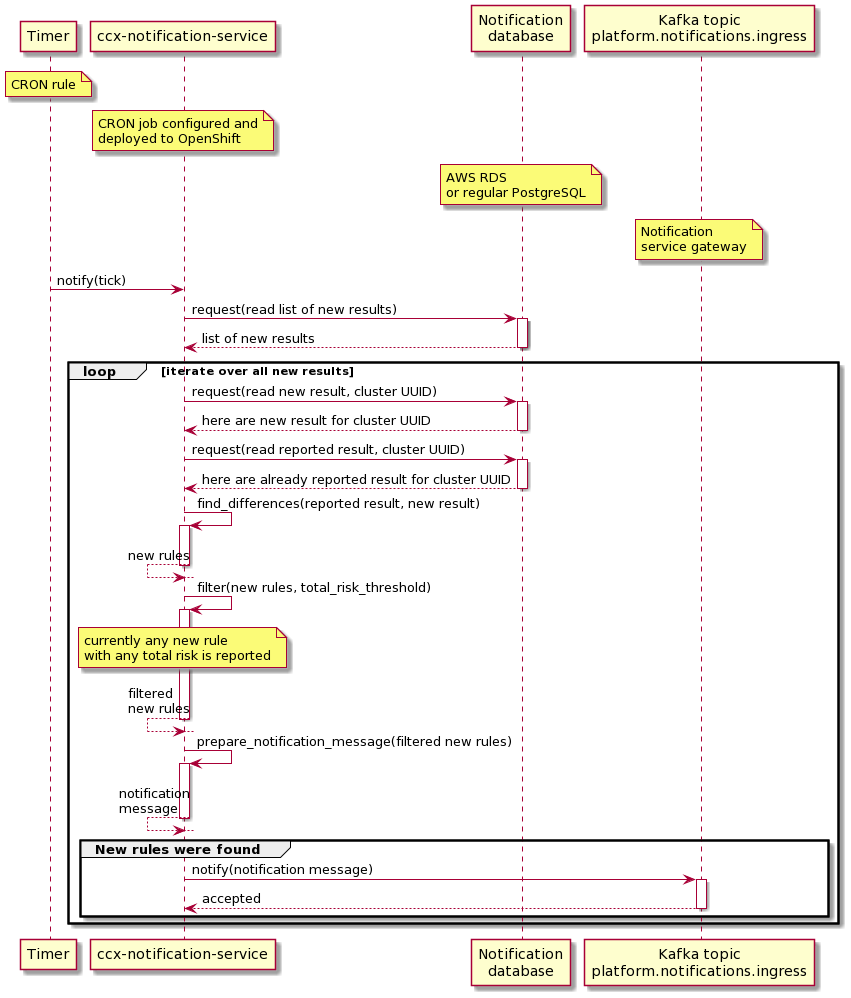
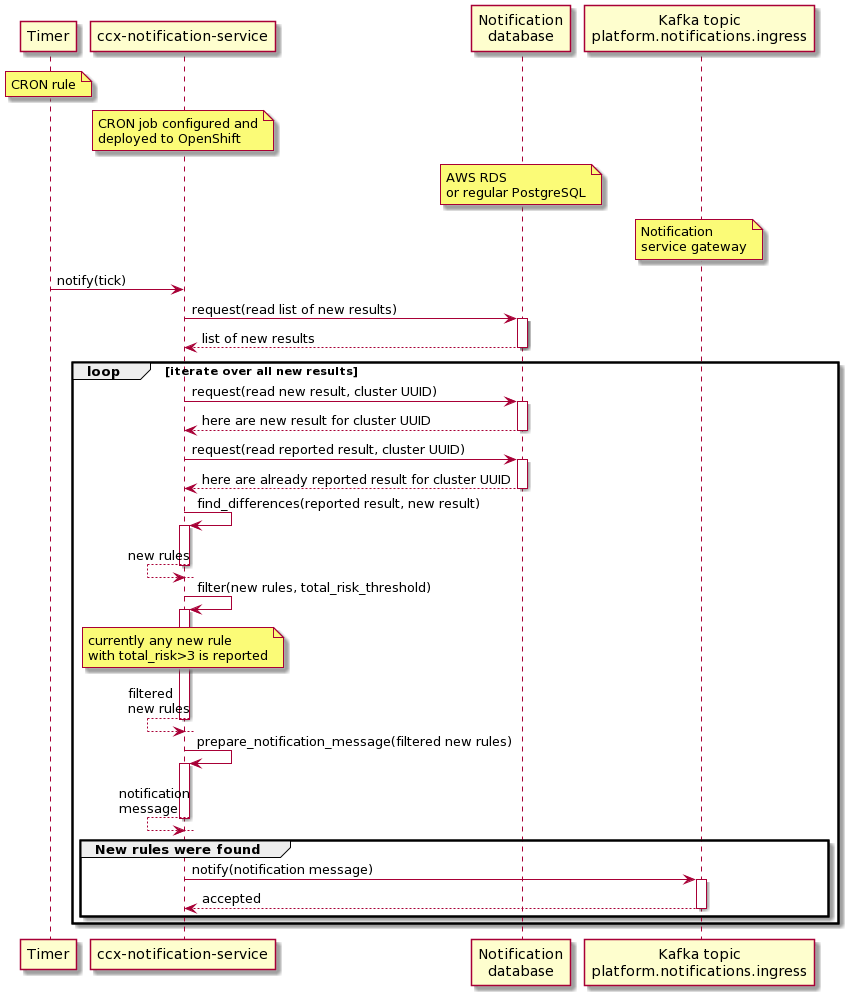
Fixed total risk condition

Changed region(s): [[0.0611, 0.3727, 0.3666, 0.9319]]

diff --git a/tools/instant_reports.py b/tools/instant_reports.py
@@ -51,7 +51,7 @@ def instant_reports(c):
             with service.find_differences("reported result", "new result"):
                 c.ret("new rules")
             with service.filter("new rules", "total_risk_threshold"):
-                c.note("currently any new rule\\nwith any total risk is reported")
+                c.note("currently any new rule\\nwith total_risk>3 is reported")
                 c.ret("filtered\\nnew rules")
             with service.prepare_notification_message("filtered new rules"):
                 c.ret("notification\\nmessage")
